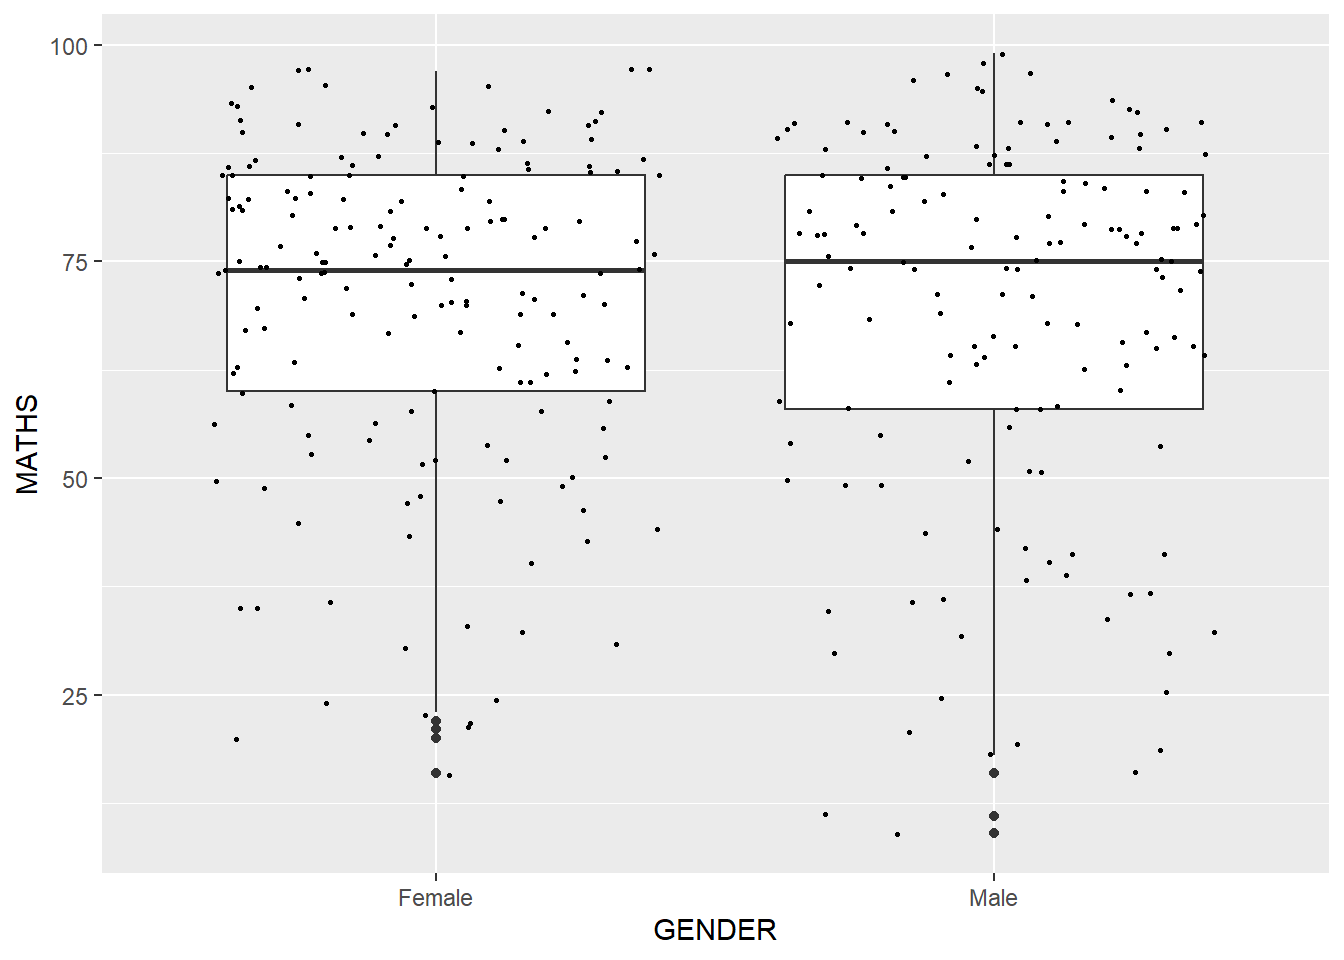
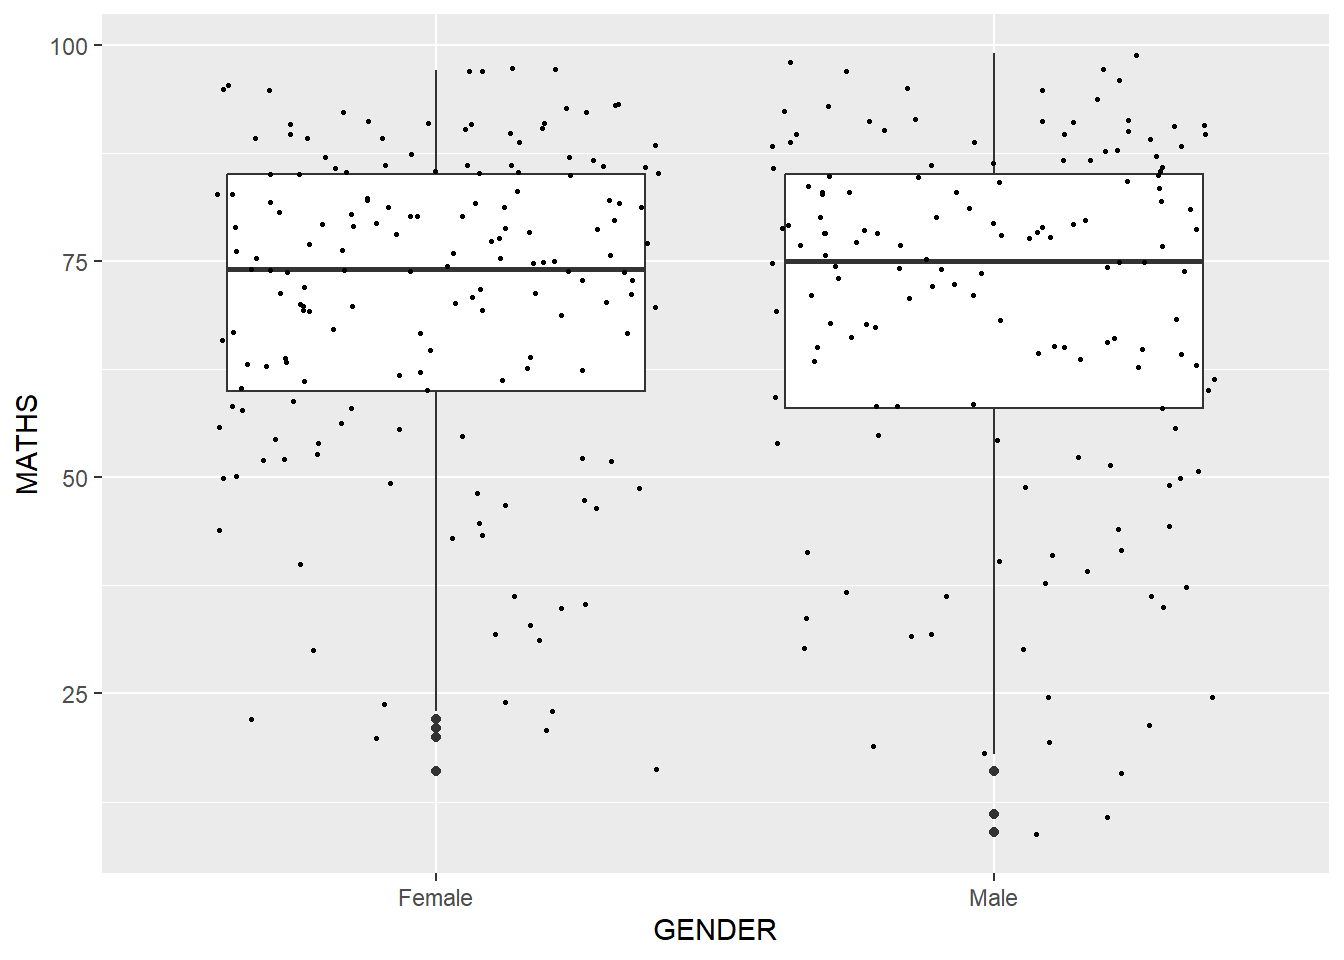
revise

diff --git a/_site/Hands-on_EX/Hands-on_EX01/Hands-on_Ex01.html b/_site/Hands-on_EX/Hands-on_EX01/Hands-on_Ex01.html
@@ -705,7 +705,6 @@ dbl (3): ENGLISH, MATHS, SCIENCE
 </div>
 </div>
 </div>
-<p>======= &gt;&gt;&gt;&gt;&gt;&gt;&gt; 5443ec43a8dd7751a75150d57b5a0320773ec935</p>
 
 
 </section>
